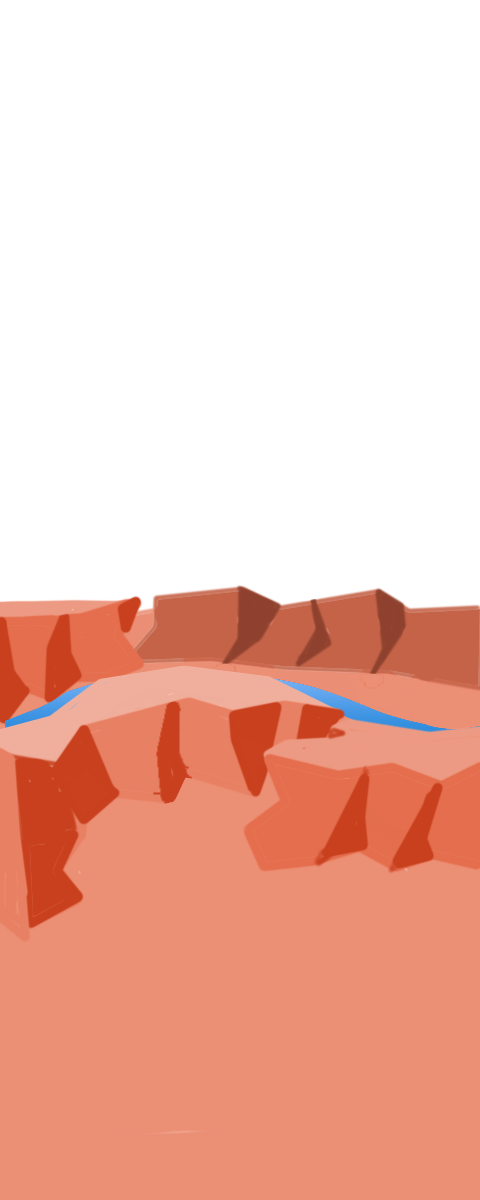
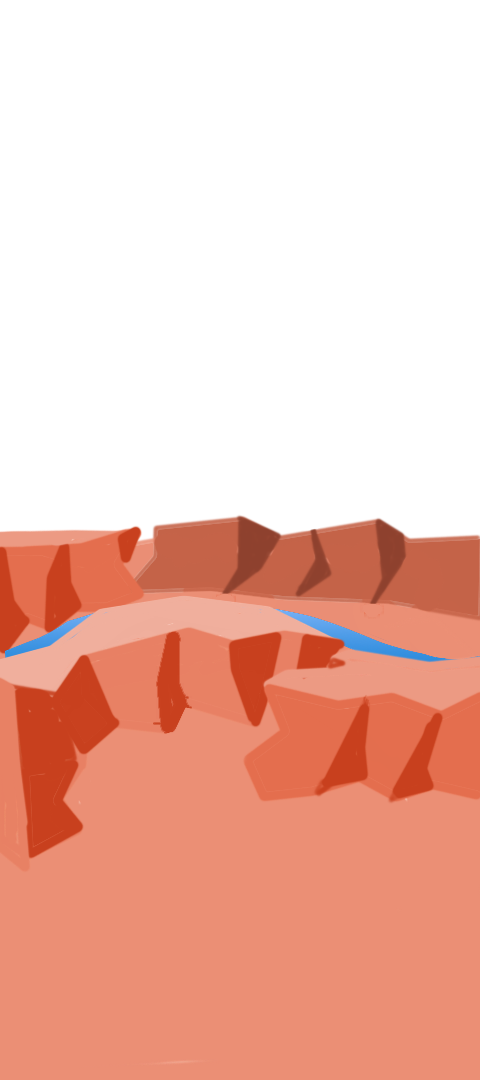
standardization of assets, fixes to levelEditor

diff --git a/MountSputnik/core/src/beigegang/mountsputnik/GameMode.java b/MountSputnik/core/src/beigegang/mountsputnik/GameMode.java
@@ -21,6 +21,8 @@ import com.badlogic.gdx.physics.box2d.World;
 import com.badlogic.gdx.physics.box2d.joints.RevoluteJointDef;
 import com.badlogic.gdx.utils.*;
 
+import java.util.HashMap;
+import java.util.Map.Entry;
 import java.util.Random;
 
 public class GameMode extends ModeController {
@@ -52,7 +54,9 @@ public class GameMode extends ModeController {
 	private static final String LAVA_FILE = "assets/testlavatexture.png"; //TODO: make this a better texture
 	private static final String UI_FILE = "assets/HUD2.png";
 	private static final String LOGO_FILE = "Menu/StartMenu/Logo Only.png";
-	private static final String HANDHOLD_TEXTURES[] = {"assets/canyon/Handhold1.png", "assets/canyon/Handhold2.png"};
+	private static final String GLOW_FILE = "assets/glow.png"; 
+	private static final HashMap<String,Integer> NUM_HANDHOLDS = new HashMap<String,Integer>();  
+	//private static final String HANDHOLD_TEXTURES[] = {"assets/canyon/Handhold1.png", "assets/canyon/Handhold2.png"};
 	private static final String PART_TEXTURES[] = {"Ragdoll/Torso.png", "Ragdoll/Head.png", "Ragdoll/Hips.png",
 			"Ragdoll/ArmLeft.png", "Ragdoll/ArmRight.png", "Ragdoll/ForearmLeft.png", "Ragdoll/ForearmRight.png",
 			"Ragdoll/HandLeftUngripped.png", "Ragdoll/HandRightUngripped.png", "Ragdoll/ThighLeft.png",
@@ -95,9 +99,10 @@ private static final String ENERGY_TEXTURES[] = new String[10];
 	private static TextureRegion edge;
 	private static TextureRegion ground;
 	private static TextureRegion lavaTexture;
+	private static TextureRegion glowTexture; 
 	private static TextureRegion[] partTextures = new TextureRegion[PART_TEXTURES.length];
 	private static TextureRegion[] tutorialTextures = new TextureRegion[TUTORIAL_TEXTURES.length];
-	private static TextureRegion[] handholdTextures = new TextureRegion[HANDHOLD_TEXTURES.length];
+	private static TextureRegion[] handholdTextures;
 	private static TextureRegion blackoutTexture;
 	private static String BLACKOUT = "assets/blackout.png";
 	private static String FATIGUE_BAR = "Energy/Fatigue Gauge.png";
@@ -145,10 +150,10 @@ private static final String ENERGY_TEXTURES[] = new String[10];
 			assets.add("assets/"+name+"/background.png");
 			manager.load("assets/"+name+"/Midground.png", Texture.class);
 			assets.add("assets/"+name+"/Midground.png");
-			manager.load("assets/"+name+"/SurfaceLight.png", Texture.class);
-			assets.add("assets/"+name+"/SurfaceLight.png");
-			manager.load("assets/"+name+"/SurfaceEdgeLight.png", Texture.class);
-			assets.add("assets/"+name+"/SurfaceEdgeLight.png");
+			manager.load("assets/"+name+"/Surface.png", Texture.class);
+			assets.add("assets/"+name+"/Surface.png");
+			manager.load("assets/"+name+"/SurfaceEdge.png", Texture.class);
+			assets.add("assets/"+name+"/SurfaceEdge.png");
 			manager.load("assets/"+name+"/LevelStart.png", Texture.class);
 			assets.add("assets/"+name+"/LevelStart.png");
 		}
@@ -170,10 +175,14 @@ private static final String ENERGY_TEXTURES[] = new String[10];
 		assets.add(LOGO_FILE);
 		manager.load(LAVA_FILE, Texture.class);
 		assets.add(LAVA_FILE);
+		manager.load(GLOW_FILE, Texture.class);
+		assets.add(GLOW_FILE);
 
-		for (String HANDHOLD_TEXTURE : HANDHOLD_TEXTURES) {
-			manager.load(HANDHOLD_TEXTURE, Texture.class);
-			assets.add(HANDHOLD_TEXTURE);
+		for (Entry<String, Integer> entry : NUM_HANDHOLDS.entrySet()){
+			for(int i = 1; i <= entry.getValue(); i++){
+				manager.load("assets/"+entry.getKey()+"/Handhold"+i+".png",Texture.class);
+				assets.add("assets/"+entry.getKey()+"/Handhold"+i+".png");
+			}
 		}
 		for (String PART_TEXTURE : PART_TEXTURES) {
 			manager.load(PART_TEXTURE, Texture.class);
@@ -210,12 +219,13 @@ private static final String ENERGY_TEXTURES[] = new String[10];
 
 		background = createTexture(manager, "assets/"+levelName+"/background.png", false);
 		midground = createTexture(manager, "assets/"+levelName+"/Midground.png", false);
-		tile = createTexture(manager, "assets/"+levelName+"/SurfaceLight.png", false);
+		tile = createTexture(manager, "assets/"+levelName+"/Surface.png", false);
 		UI = createTexture(manager, UI_FILE, false);
 		LOGO = createTexture(manager, LOGO_FILE, false);
-		edge = createTexture(manager, "assets/"+levelName+"/SurfaceEdgeLight.png", false);
+		edge = createTexture(manager, "assets/"+levelName+"/SurfaceEdge.png", false);
 		ground = createTexture(manager, "assets/"+levelName+"/LevelStart.png", false);
 		lavaTexture = createTexture(manager, LAVA_FILE, false);
+		glowTexture = createTexture(manager, GLOW_FILE, false); 
 		
 		for (int i = 0; i < PART_TEXTURES.length; i++) {
 			partTextures[i] = createTexture(manager, PART_TEXTURES[i], false);
@@ -224,9 +234,10 @@ private static final String ENERGY_TEXTURES[] = new String[10];
 		for (int i = 0; i < TUTORIAL_TEXTURES.length; i++) {
 			tutorialTextures[i] = createTexture(manager, TUTORIAL_TEXTURES[i], false);
 		}
-
-		for (int i = 0; i < HANDHOLD_TEXTURES.length; i++) {
-			handholdTextures[i] = createTexture(manager, HANDHOLD_TEXTURES[i], false);
+		
+		handholdTextures = new TextureRegion[NUM_HANDHOLDS.get(levelName)];
+		for (int i = 1; i <= NUM_HANDHOLDS.get(levelName); i++) {
+			handholdTextures[i-1] = createTexture(manager, "assets/"+levelName+"/Handhold"+i+".png", false);
 		}
 
 		for (int i = 0; i < ENERGY_TEXTURES.length; i++) {
@@ -309,6 +320,8 @@ private static final String ENERGY_TEXTURES[] = new String[10];
 		font.setColor(Color.RED);
 		font.getData().setScale(5);
 
+		NUM_HANDHOLDS.put("canyon", 1); 
+		NUM_HANDHOLDS.put("tutorial",4); 
 
 	}
 
@@ -326,7 +339,7 @@ private static final String ENERGY_TEXTURES[] = new String[10];
 		timestep = 0;
 		//TODO: make this based on current level, rather than hardcoded test
 		populateLevel();
-		blackoutSprite.setBounds(canvas.getWidth()/4,0,canvas.getWidth()*2/4,canvas.getHeight());
+		blackoutSprite.setBounds(0,0,canvas.getWidth(),canvas.getHeight());
 
 	}
 
@@ -445,7 +458,7 @@ private static final String ENERGY_TEXTURES[] = new String[10];
 		Random rand = new Random();
 
 		while(handholdDesc != null){
-			handhold = new HandholdModel( handholdTextures[rand.nextInt(handholdTextures.length)].getTexture(),
+			handhold = new HandholdModel( handholdTextures[rand.nextInt(handholdTextures.length)].getTexture(), glowTexture.getTexture(), 
 					handholdDesc.getFloat("positionX"), handholdDesc.getFloat("positionY")+currentHeight,
 					new Vector2(handholdDesc.getFloat("width"), handholdDesc.getFloat("height")), scale);
 			handhold.fixtureDef.filter.maskBits = 0;

diff --git a/MountSputnik/core/assets/levelEditor.py b/MountSputnik/core/assets/levelEditor.py
@@ -294,10 +294,10 @@ fallingObstacleWidth = 2
 scaling = 32
 
 handholds = [
-    Handhold(6*scaling, 8.93*scaling, 1, 0, 0), 
-    Handhold(12.5*scaling, 9.18*scaling, 1, 0, 0), 
-    Handhold(7.78*scaling, 4.75*scaling, 1, 0, 0), 
-    Handhold(10*scaling, 4.5*scaling, 1, 0, 0)
+    Handhold(5*scaling, 8.93*scaling, 1, 0, 0), 
+    Handhold(10.5*scaling, 9.18*scaling, 1, 0, 0), 
+    Handhold(6.78*scaling, 4.75*scaling, 1, 0, 0), 
+    Handhold(9*scaling, 4.5*scaling, 1, 0, 0)
 ]
 staticObstacles = []
 fallingObstacles = []
@@ -336,7 +336,7 @@ class LinePlayground(FloatLayout):
             Color(0,0,0)
             Rectangle(pos=[canvas_left,0],size=[blockWidth*scaling, Window.size[1]])
             Color(1,1,1)
-            Rectangle(pos=[canvas_left, canvas_origin],size=[blockWidth*scaling,self.blockHeight*scaling], source=self.directory+'SurfaceLight.png')
+            Rectangle(pos=[canvas_left, canvas_origin],size=[blockWidth*scaling,self.blockHeight*scaling], source=self.directory+'Surface.png')
             Rectangle(pos=[canvas_left+blockWidth*scaling/2.9, 150], size=[blockWidth*scaling/2.8, blockWidth*scaling/2.8], source='assets/character.png')
         self.drawHandholds()
         self.drawObstacles()
@@ -360,7 +360,7 @@ class LinePlayground(FloatLayout):
             Color(0,0,0)
             Rectangle(pos=[canvas_left, 0], size=[blockWidth*scaling, Window.size[1]])
             Color(1,1,1,1)
-            Rectangle(pos=[canvas_left, canvas_origin],size=[blockWidth*scaling,self.blockHeight*scaling], source=self.directory+"SurfaceLight.png")
+            Rectangle(pos=[canvas_left, canvas_origin],size=[blockWidth*scaling,self.blockHeight*scaling], source=self.directory+"Surface.png")
             Color(1,1,1,1)
             Rectangle(pos=[canvas_left+blockWidth*scaling/2.9, 150], size=[blockWidth*scaling/2.8, blockWidth*scaling/2.8], source='assets/character.png')
         self.removeBadHandholds()
@@ -489,14 +489,17 @@ class LinePlayground(FloatLayout):
         return canvas_left < x and x+w < (canvas_left)+blockWidth*scaling  
 
     def clear(self):
-        global handholds 
+        global handholds
+        global movingHandholds
+        global fallingObstacles
+        global staticObstacles 
         global selected 
         handholds = [
-            Handhold(12.53*scaling, 8.93*scaling, 1,0,0), 
-            Handhold(19*scaling, 9.18*scaling, 1,0,0), 
-            Handhold(14.28*scaling, 4.75*scaling, 1,0,0), 
-            Handhold(16.46*scaling, 4.5*scaling, 1,0,0)
-        ]
+            Handhold(5*scaling, 8.93*scaling, 1, 0, 0), 
+            Handhold(10.5*scaling, 9.18*scaling, 1, 0, 0), 
+            Handhold(6.78*scaling, 4.75*scaling, 1, 0, 0), 
+            Handhold(9*scaling, 4.5*scaling, 1, 0, 0)
+            ]
         movingHandholds = [] 
         fallingObstacles = []
         staticObstacles = []

diff --git a/MountSputnik/core/src/beigegang/mountsputnik/HandholdModel.java b/MountSputnik/core/src/beigegang/mountsputnik/HandholdModel.java
@@ -26,6 +26,7 @@ public class HandholdModel extends GameObject{
 	private boolean isGlowing = false;
 	/** The texture the handhold will have when not glowing */ 
 	protected Texture texture;
+	protected Texture glowTexture; 
 
 	private Vector2 startPoint, endPoint;
 	
@@ -129,11 +130,12 @@ public class HandholdModel extends GameObject{
 	 * @param dimensions the dimensions of the handhold in box2d coordinates
 	 * @param drawPositionScale the scaling between box2d coordinates and world coordinates
 	 */
-	public HandholdModel(Texture t, float x, float y, Vector2 dimensions, Vector2 drawPositionScale){
+	public HandholdModel(Texture t, Texture gt, float x, float y, Vector2 dimensions, Vector2 drawPositionScale){
 		super(t, dimensions, drawPositionScale);
 		setX(x);
 		setY(y);
 
+		glowTexture = gt; 
 		isCrumbling = false;
 		velocity = 0;
 		snapPoints = new Array<Vector2>();
@@ -172,15 +174,14 @@ public class HandholdModel extends GameObject{
 
 		//TODO: remove this if check once all level blocks only contain handholds within the playable area
 		if (getX() * drawPositionScale.x > canvas.getWidth() / 4 && getX() * drawPositionScale.x < canvas.getWidth() * 3 / 4) {
-			if (isGlowing) {
-				canvas.draw(animator, Color.YELLOW, origin.x, origin.y,
-						getX() * drawPositionScale.x, getY() * drawPositionScale.y,
+			if (isGlowing){
+				canvas.draw(glowTexture, Color.WHITE, origin.x, origin.y, getX() * drawPositionScale.x, getY() * drawPositionScale.y,
 						getAngle(), drawSizeScale.x, drawSizeScale.y);
-			} else {
+			}
 				canvas.draw(animator, Color.WHITE, origin.x, origin.y,
 						getX() * drawPositionScale.x, getY() * drawPositionScale.y,
 						getAngle(), drawSizeScale.x, drawSizeScale.y);
-			}
+			
 		}
 	}
 
